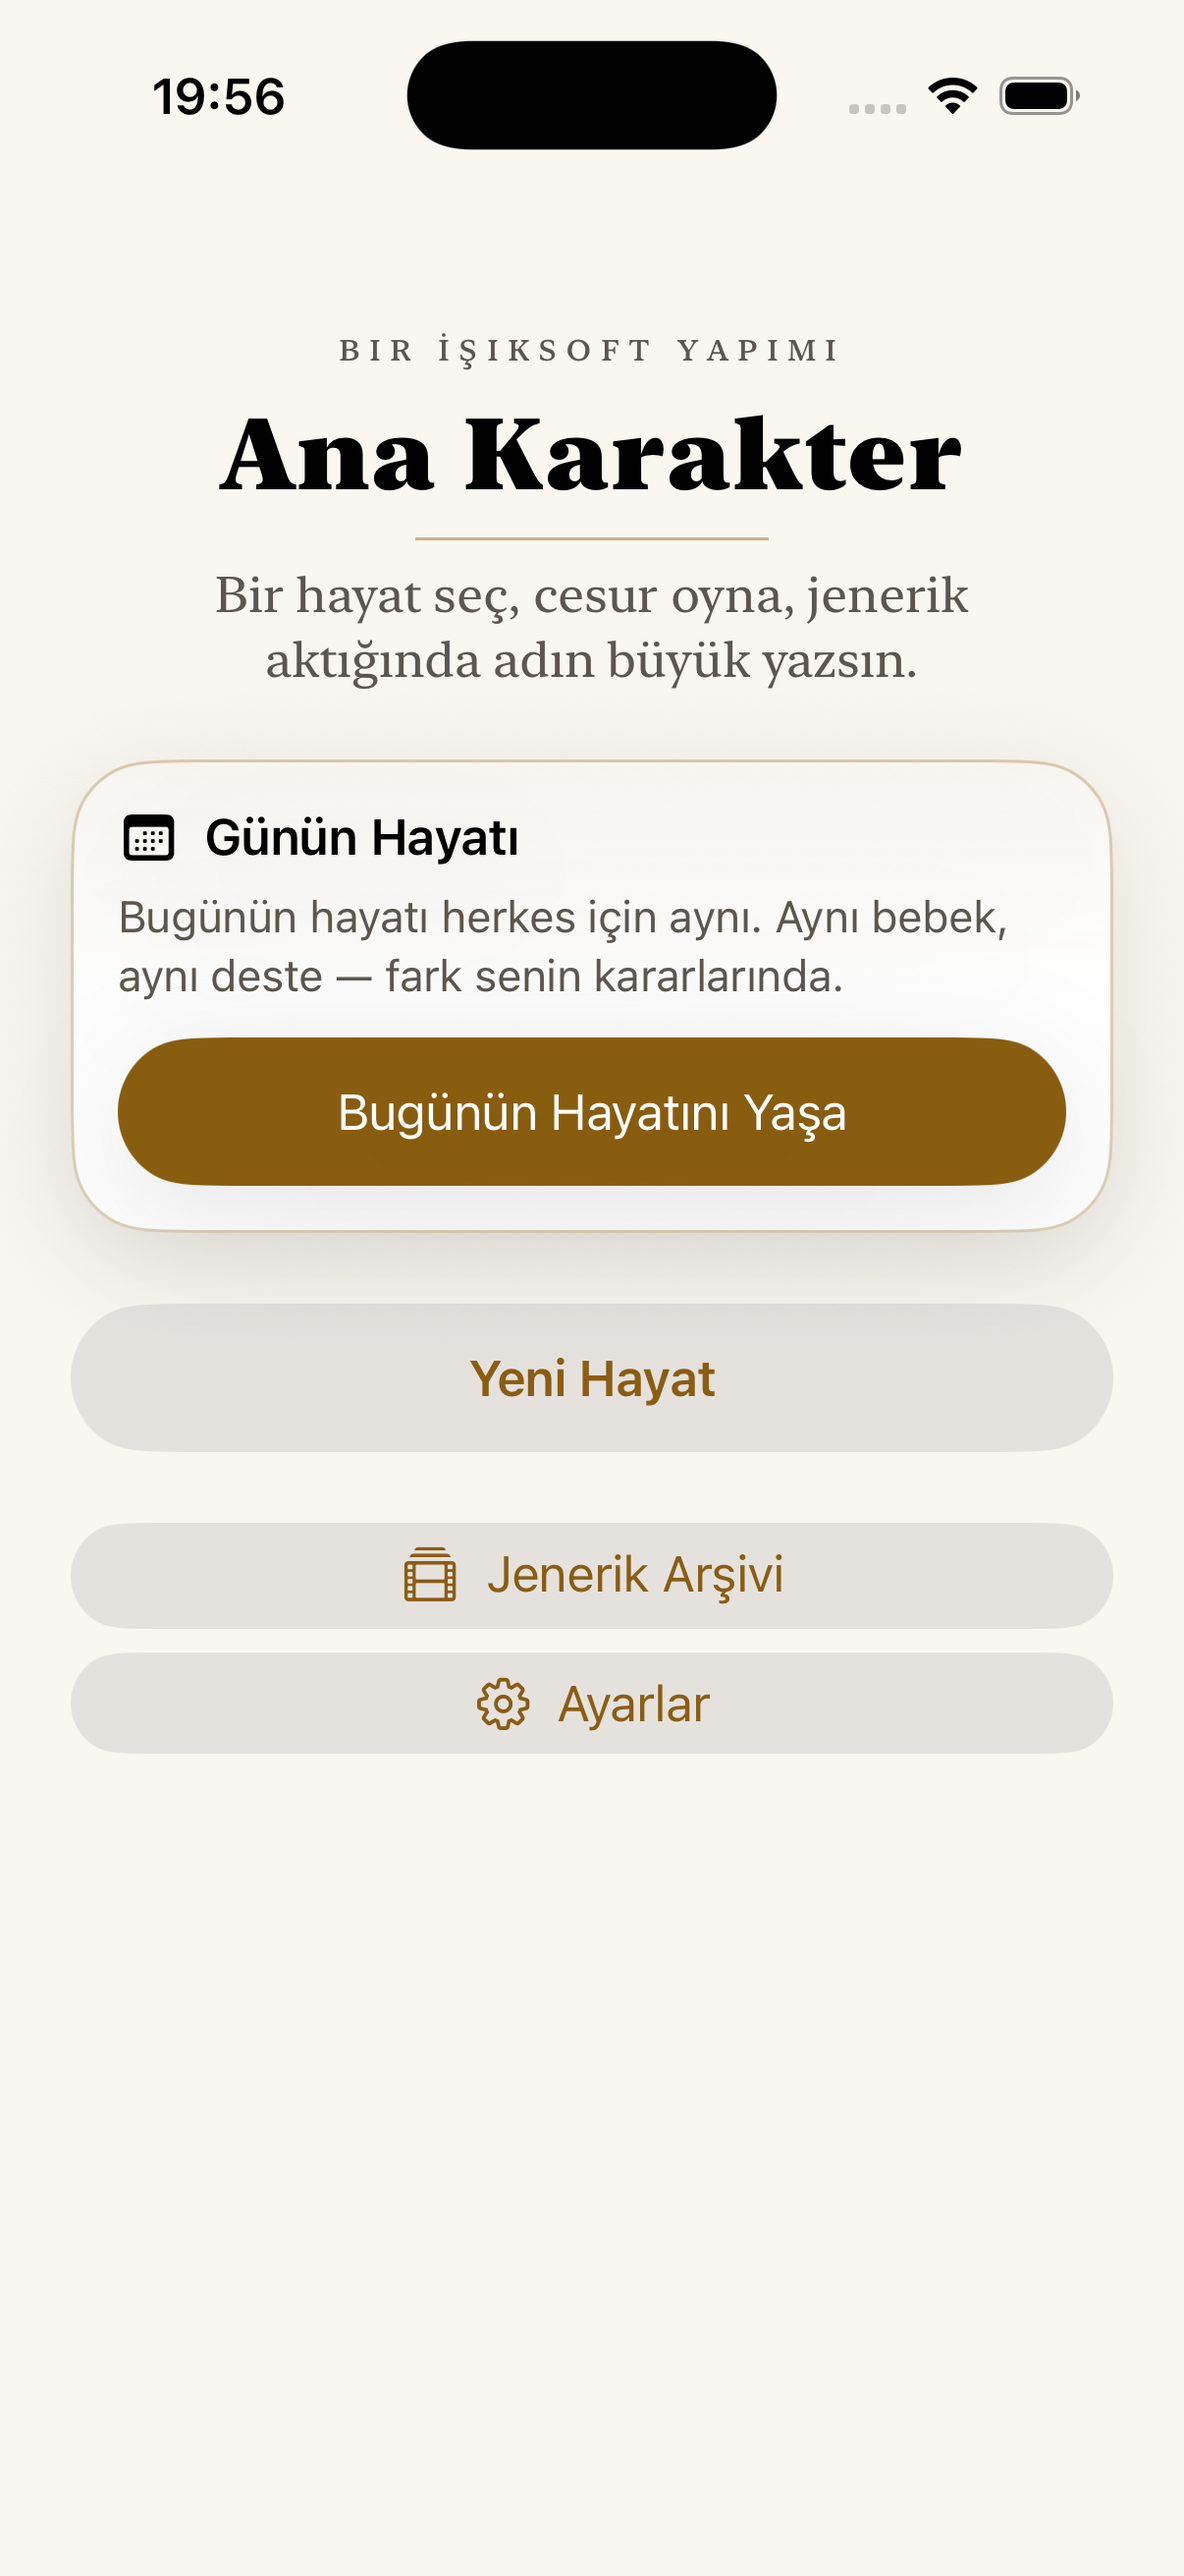
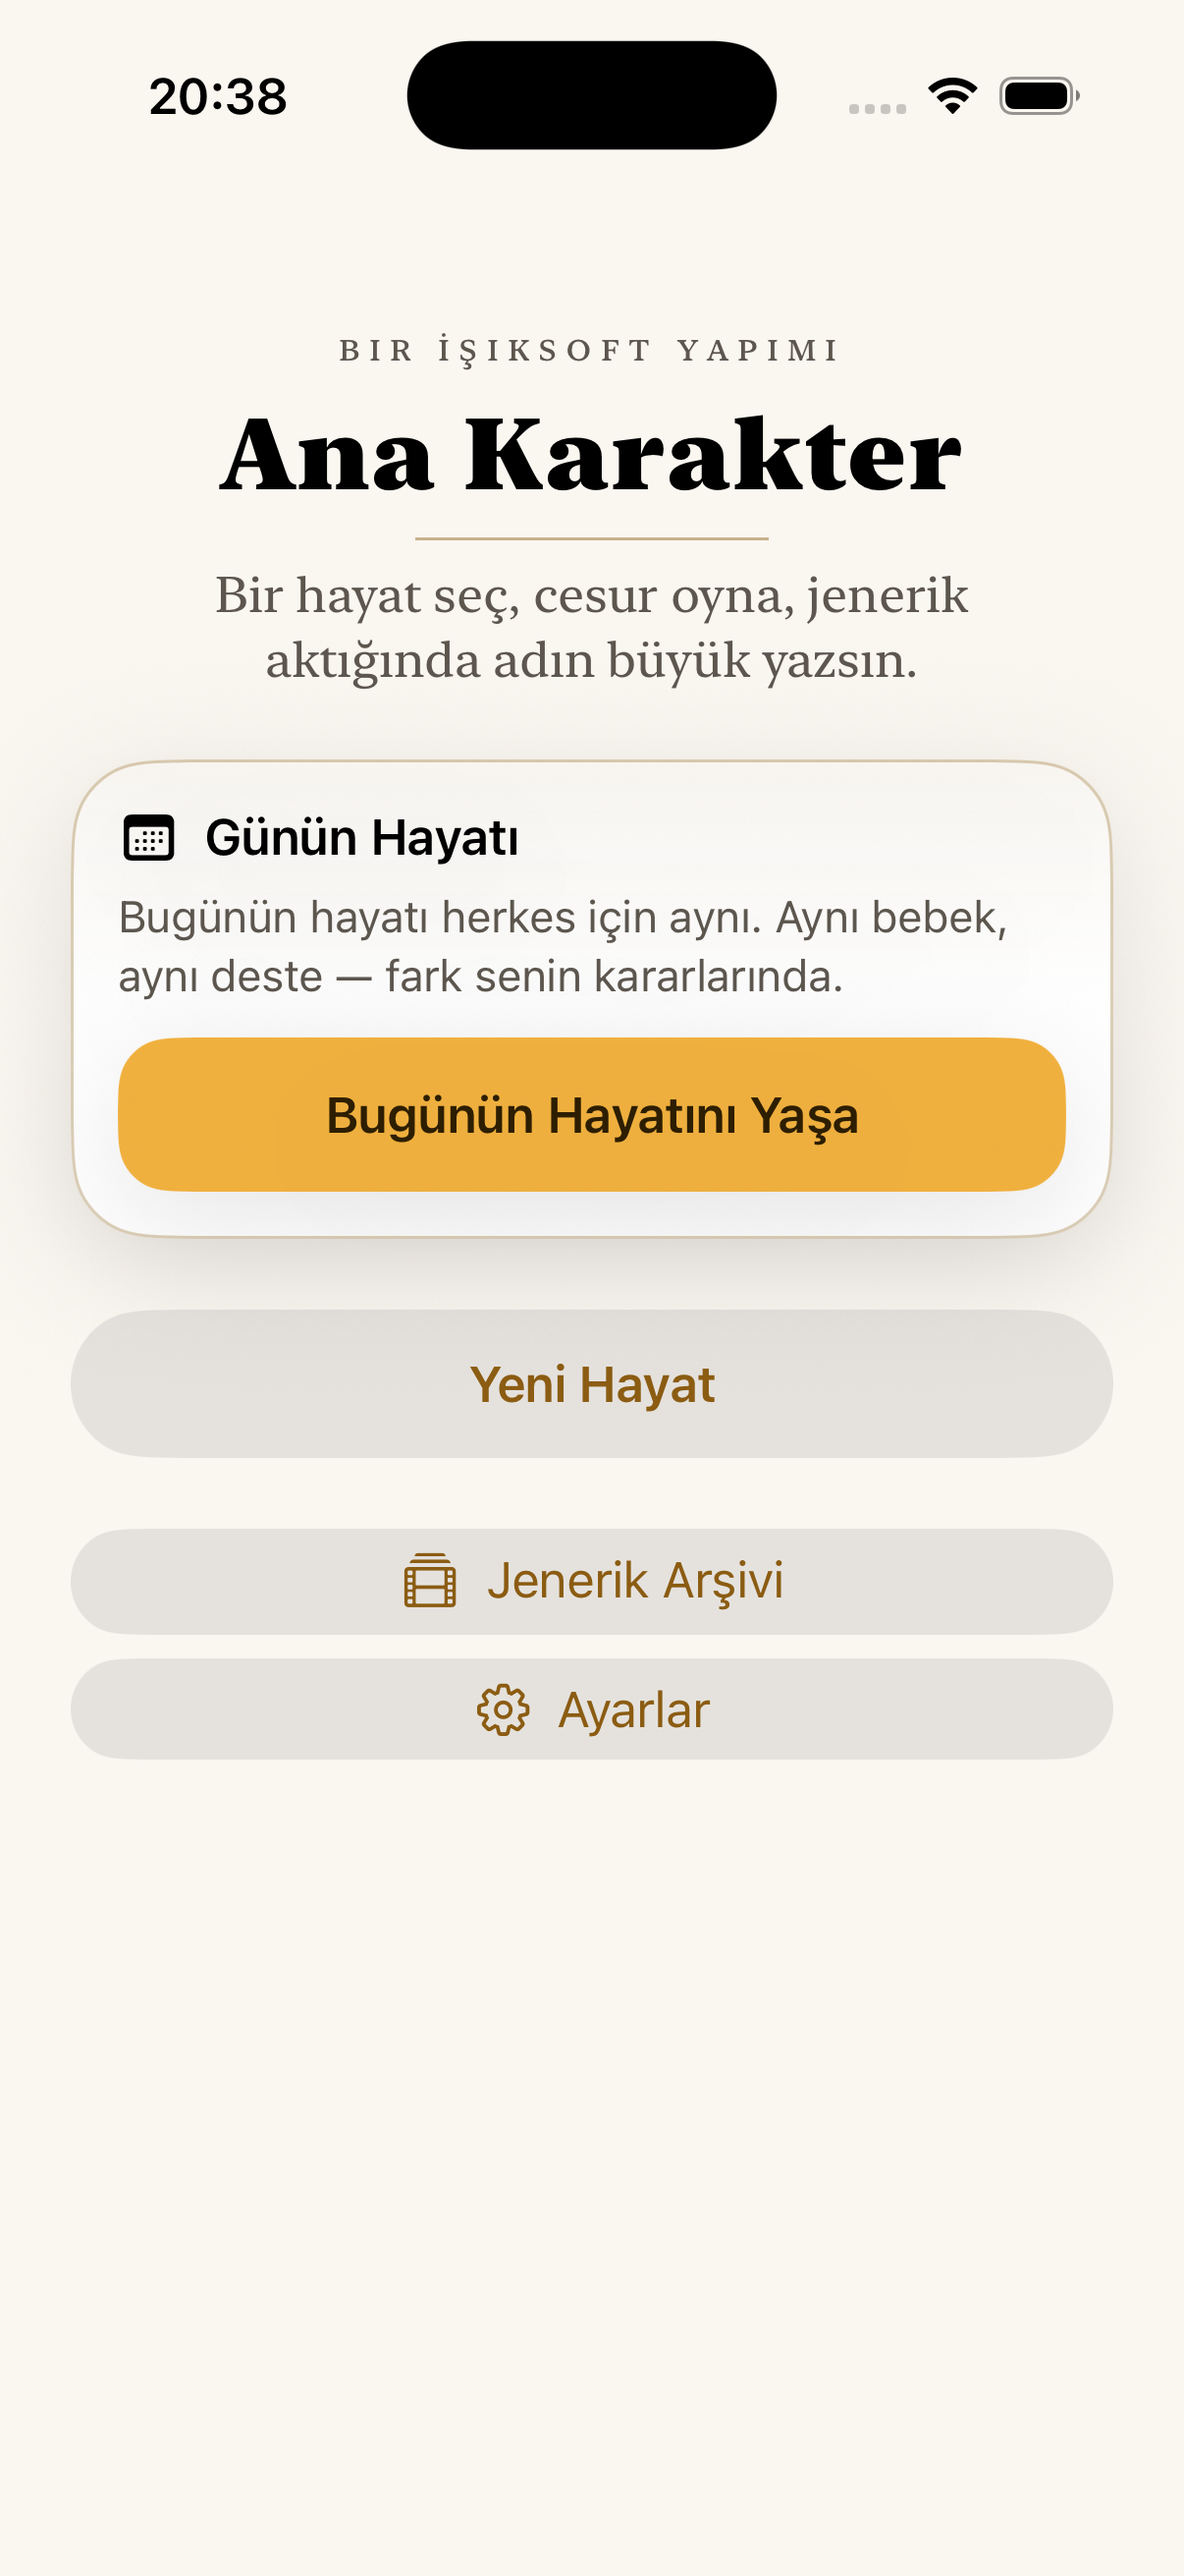
Faz 5: altın marka rengi geri geldi — dolgu canlı, metin koyu
Kontrastı tutturmak için altını karartmak marka rengini öldürüyordu
(düğmeler kahverengiye kaçmıştı). Doğru çözüm rengi değil metni
değiştirmek: canlı altın dolgu + koyu kahve metin, kontrast 8.5:1.

- GoldFill (canlı, dolgu) ve OnGold (koyu, dolgu üstü metin) token'ları
- GoldButtonStyle: birincil eylem düğmeleri artık bu ikiliyi kullanıyor
- Accent.gold koyu kalıyor ama yalnız METİN/İKON için

Menü ekran görüntüsü yenilendi.

diff --git a/AnaKarakter/Core/DesignSystem/CardSurface.swift b/AnaKarakter/Core/DesignSystem/CardSurface.swift
@@ -73,3 +73,26 @@ struct PressableButtonStyle: ButtonStyle {
             .animation(.spring(response: 0.25, dampingFraction: 0.7), value: configuration.isPressed)
     }
 }
+
+/// Birincil eylem düğmesi — canlı altın dolgu, koyu metin.
+///
+/// `.borderedProminent` + `.tint(gold)` beyaz metin çiziyordu; kontrastı
+/// tutturmak için altını karartmak gerekiyordu ve marka rengi kayboluyordu.
+/// Metni koyulaştırmak aynı sorunu çözer, rengi de korur (kontrast ≥ 8:1).
+struct GoldButtonStyle: ButtonStyle {
+    @Environment(\.accessibilityReduceMotion) private var reduceMotion
+
+    func makeBody(configuration: Configuration) -> some View {
+        configuration.label
+            .font(.headline)
+            .foregroundStyle(DesignTokens.Accent.onGold)
+            .frame(maxWidth: .infinity)
+            .padding(.vertical, DesignTokens.Spacing.medium)
+            .background {
+                RoundedRectangle(cornerRadius: DesignTokens.Radius2.action, style: .continuous)
+                    .fill(DesignTokens.Accent.goldFill)
+            }
+            .scaleEffect(configuration.isPressed && !reduceMotion ? 0.97 : 1)
+            .animation(.spring(response: 0.25, dampingFraction: 0.7), value: configuration.isPressed)
+    }
+}

diff --git a/AnaKarakter/Core/DesignSystem/DesignTokens.swift b/AnaKarakter/Core/DesignSystem/DesignTokens.swift
@@ -68,8 +68,15 @@ enum DesignTokens {
     /// Anlam taşıyan vurgular. Kırmızı bilinçli olarak YOK: olumsuz olay
     /// "hata" değil hayatın bir sahnesidir, turuncu/koyu tonla anlatılır.
     enum Accent {
-        /// Başarı, rol, kazanım.
+        /// Başarı, rol, kazanım — **metin ve ikon** için. Aydınlık zeminde
+        /// okunabilir olsun diye koyudur.
         static let gold = Color("GoldAccent")
+        /// Aynı altının **dolgu** hâli: canlı, marka rengi. Üstüne beyaz
+        /// değil `onGold` yazılır — marka rengini karartmak yerine metni
+        /// koyulaştırmak hem kontrastı hem kimliği korur.
+        static let goldFill = Color("GoldFill")
+        /// `goldFill` üzerindeki metin/ikon rengi (kontrast ≥ 8:1).
+        static let onGold = Color("OnGold")
         /// Olumsuz sonuç.
         static let warn = Color("WarnAccent")
         /// Nötr/sakin seçim.

diff --git a/AnaKarakter/Features/Menu/MenuView.swift b/AnaKarakter/Features/Menu/MenuView.swift
@@ -102,9 +102,7 @@ struct MenuView: View {
                 Text(daily.hasPlayedToday ? "menu.daily.review" : "menu.daily.play")
                     .frame(maxWidth: .infinity)
             }
-            .buttonStyle(.borderedProminent)
-            .controlSize(.large)
-            .tint(DesignTokens.Accent.gold)
+            .buttonStyle(GoldButtonStyle())
             .padding(.top, DesignTokens.Spacing.xSmall)
         }
         .padding(DesignTokens.Spacing.medium)

diff --git a/AnaKarakter/Features/Life/LifeFlowView.swift b/AnaKarakter/Features/Life/LifeFlowView.swift
@@ -233,9 +233,7 @@ struct LifeFlowView: View {
                         .font(.headline)
                         .frame(maxWidth: .infinity)
                 }
-                .buttonStyle(.borderedProminent)
-                .controlSize(.large)
-                .tint(DesignTokens.Accent.gold)
+                .buttonStyle(GoldButtonStyle())
             }
         case .decision:
             VStack(spacing: DesignTokens.Spacing.small) {
